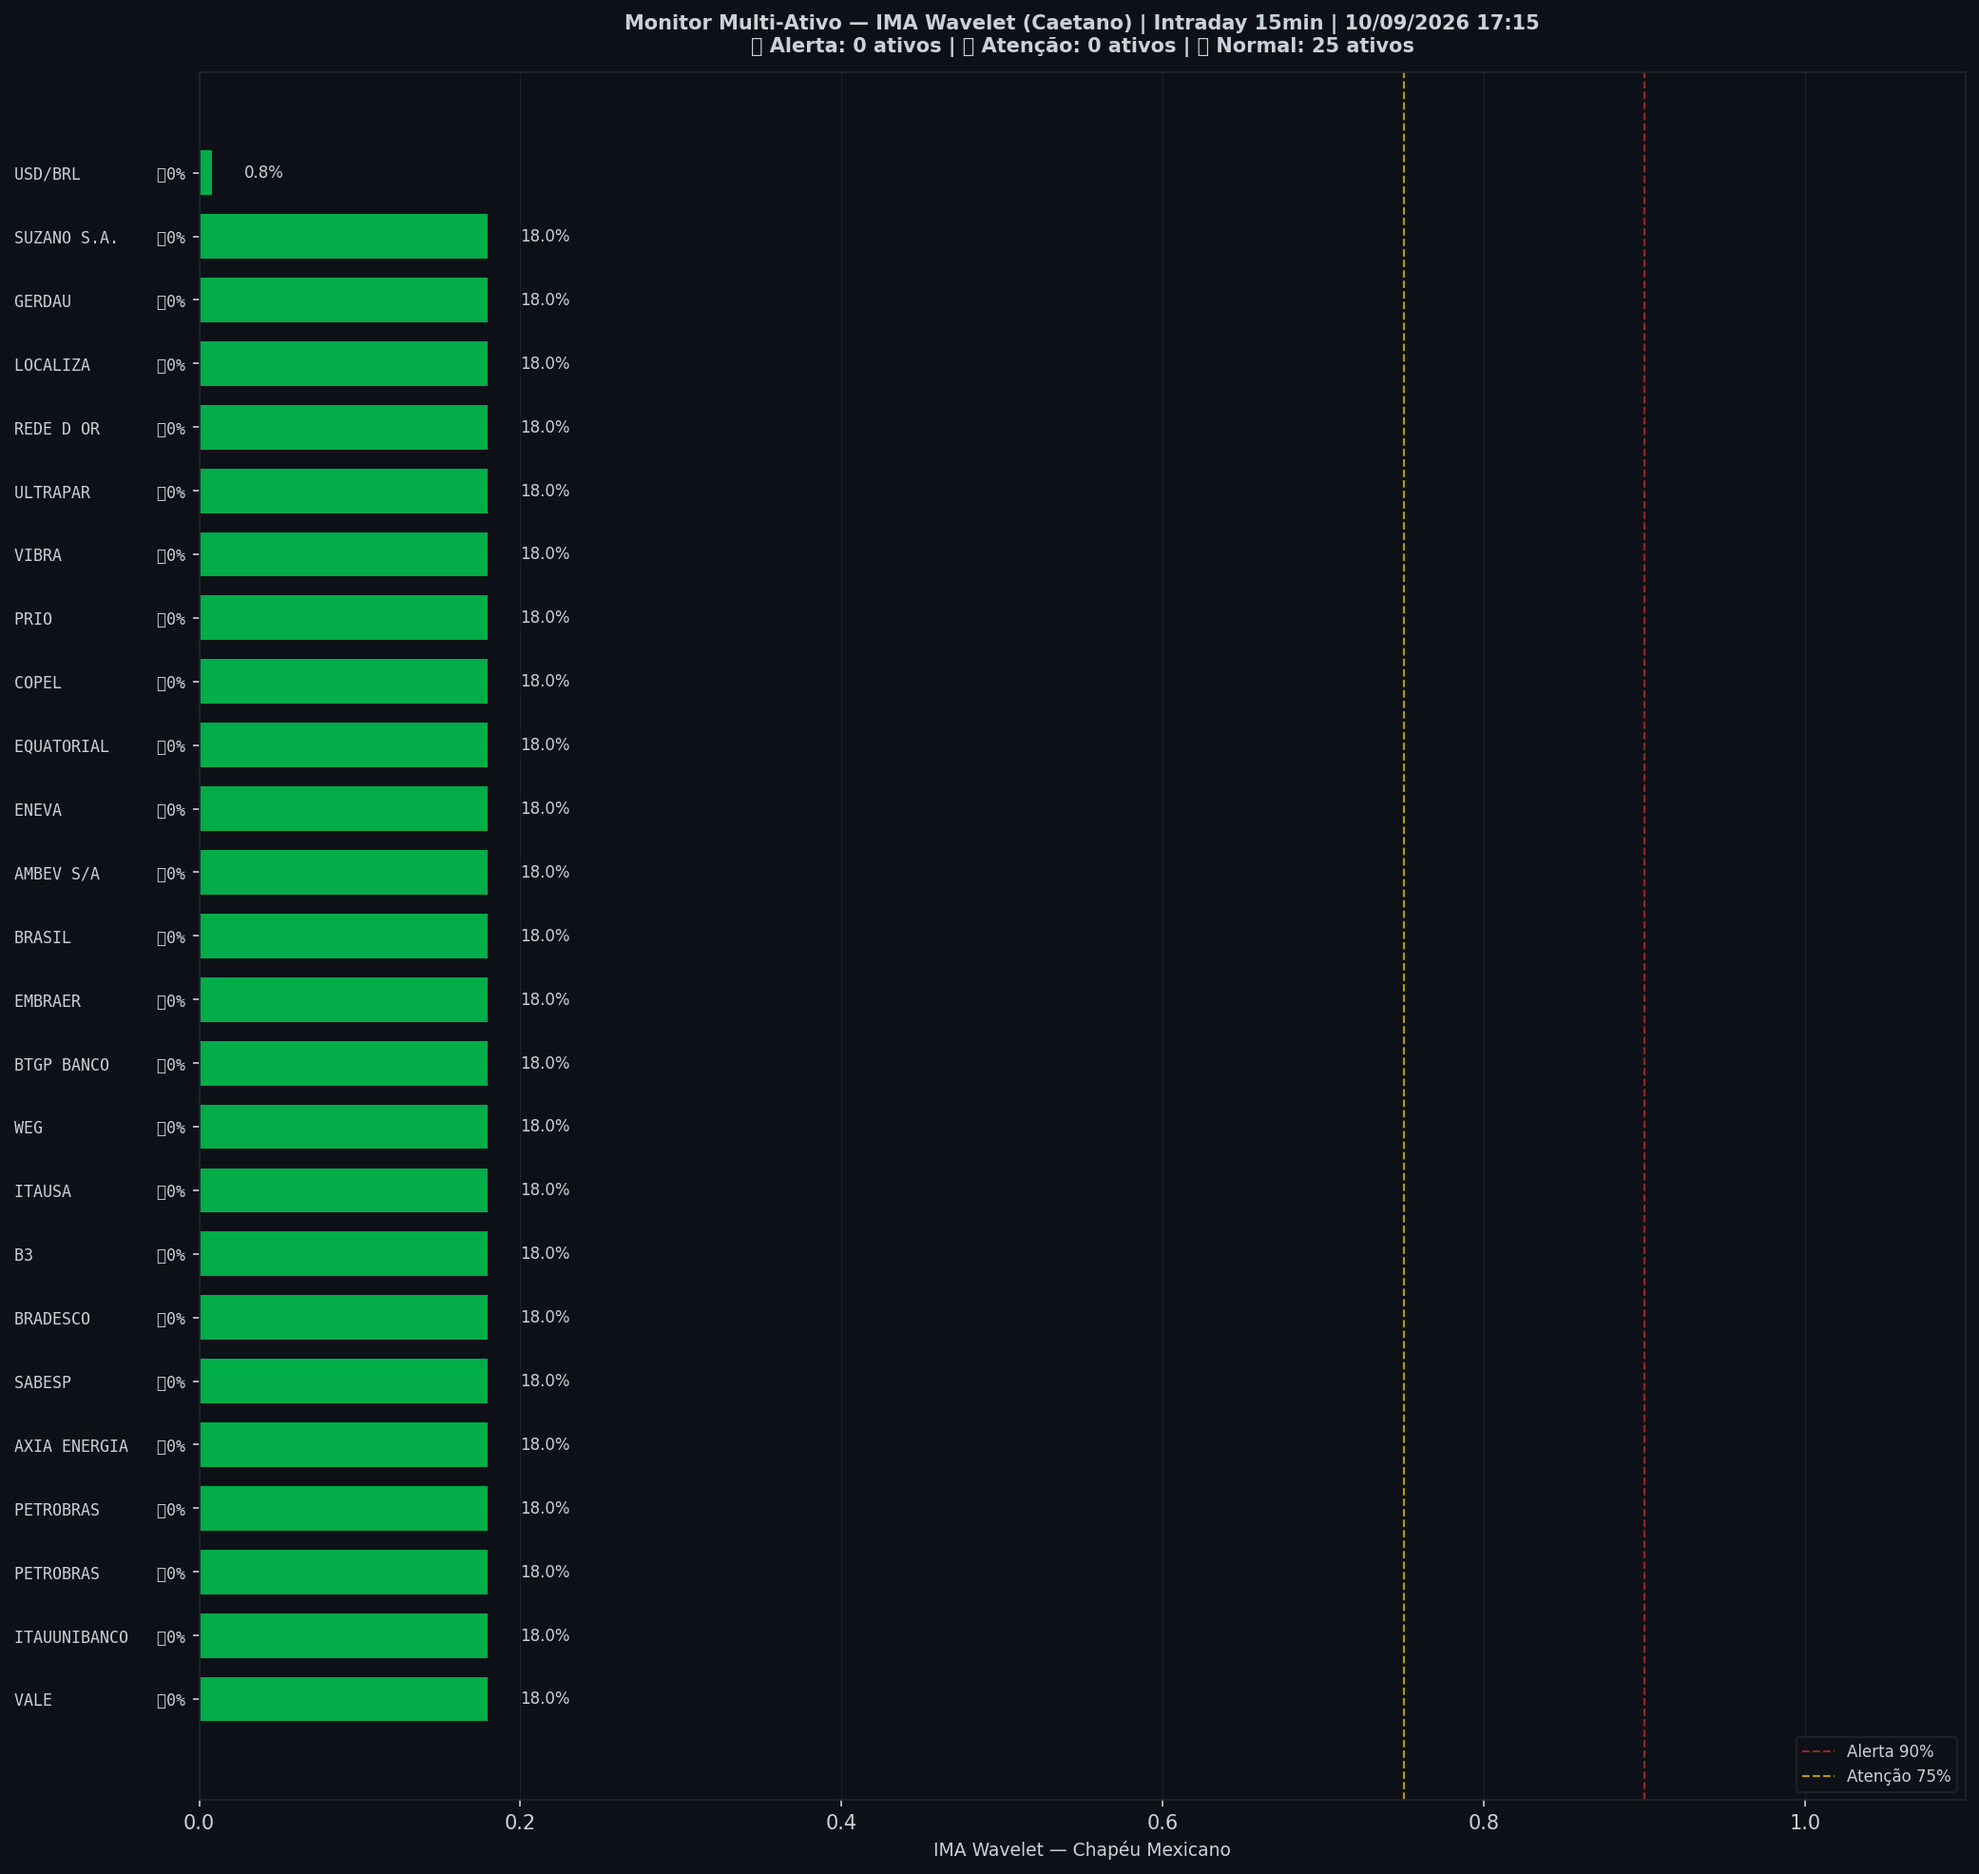
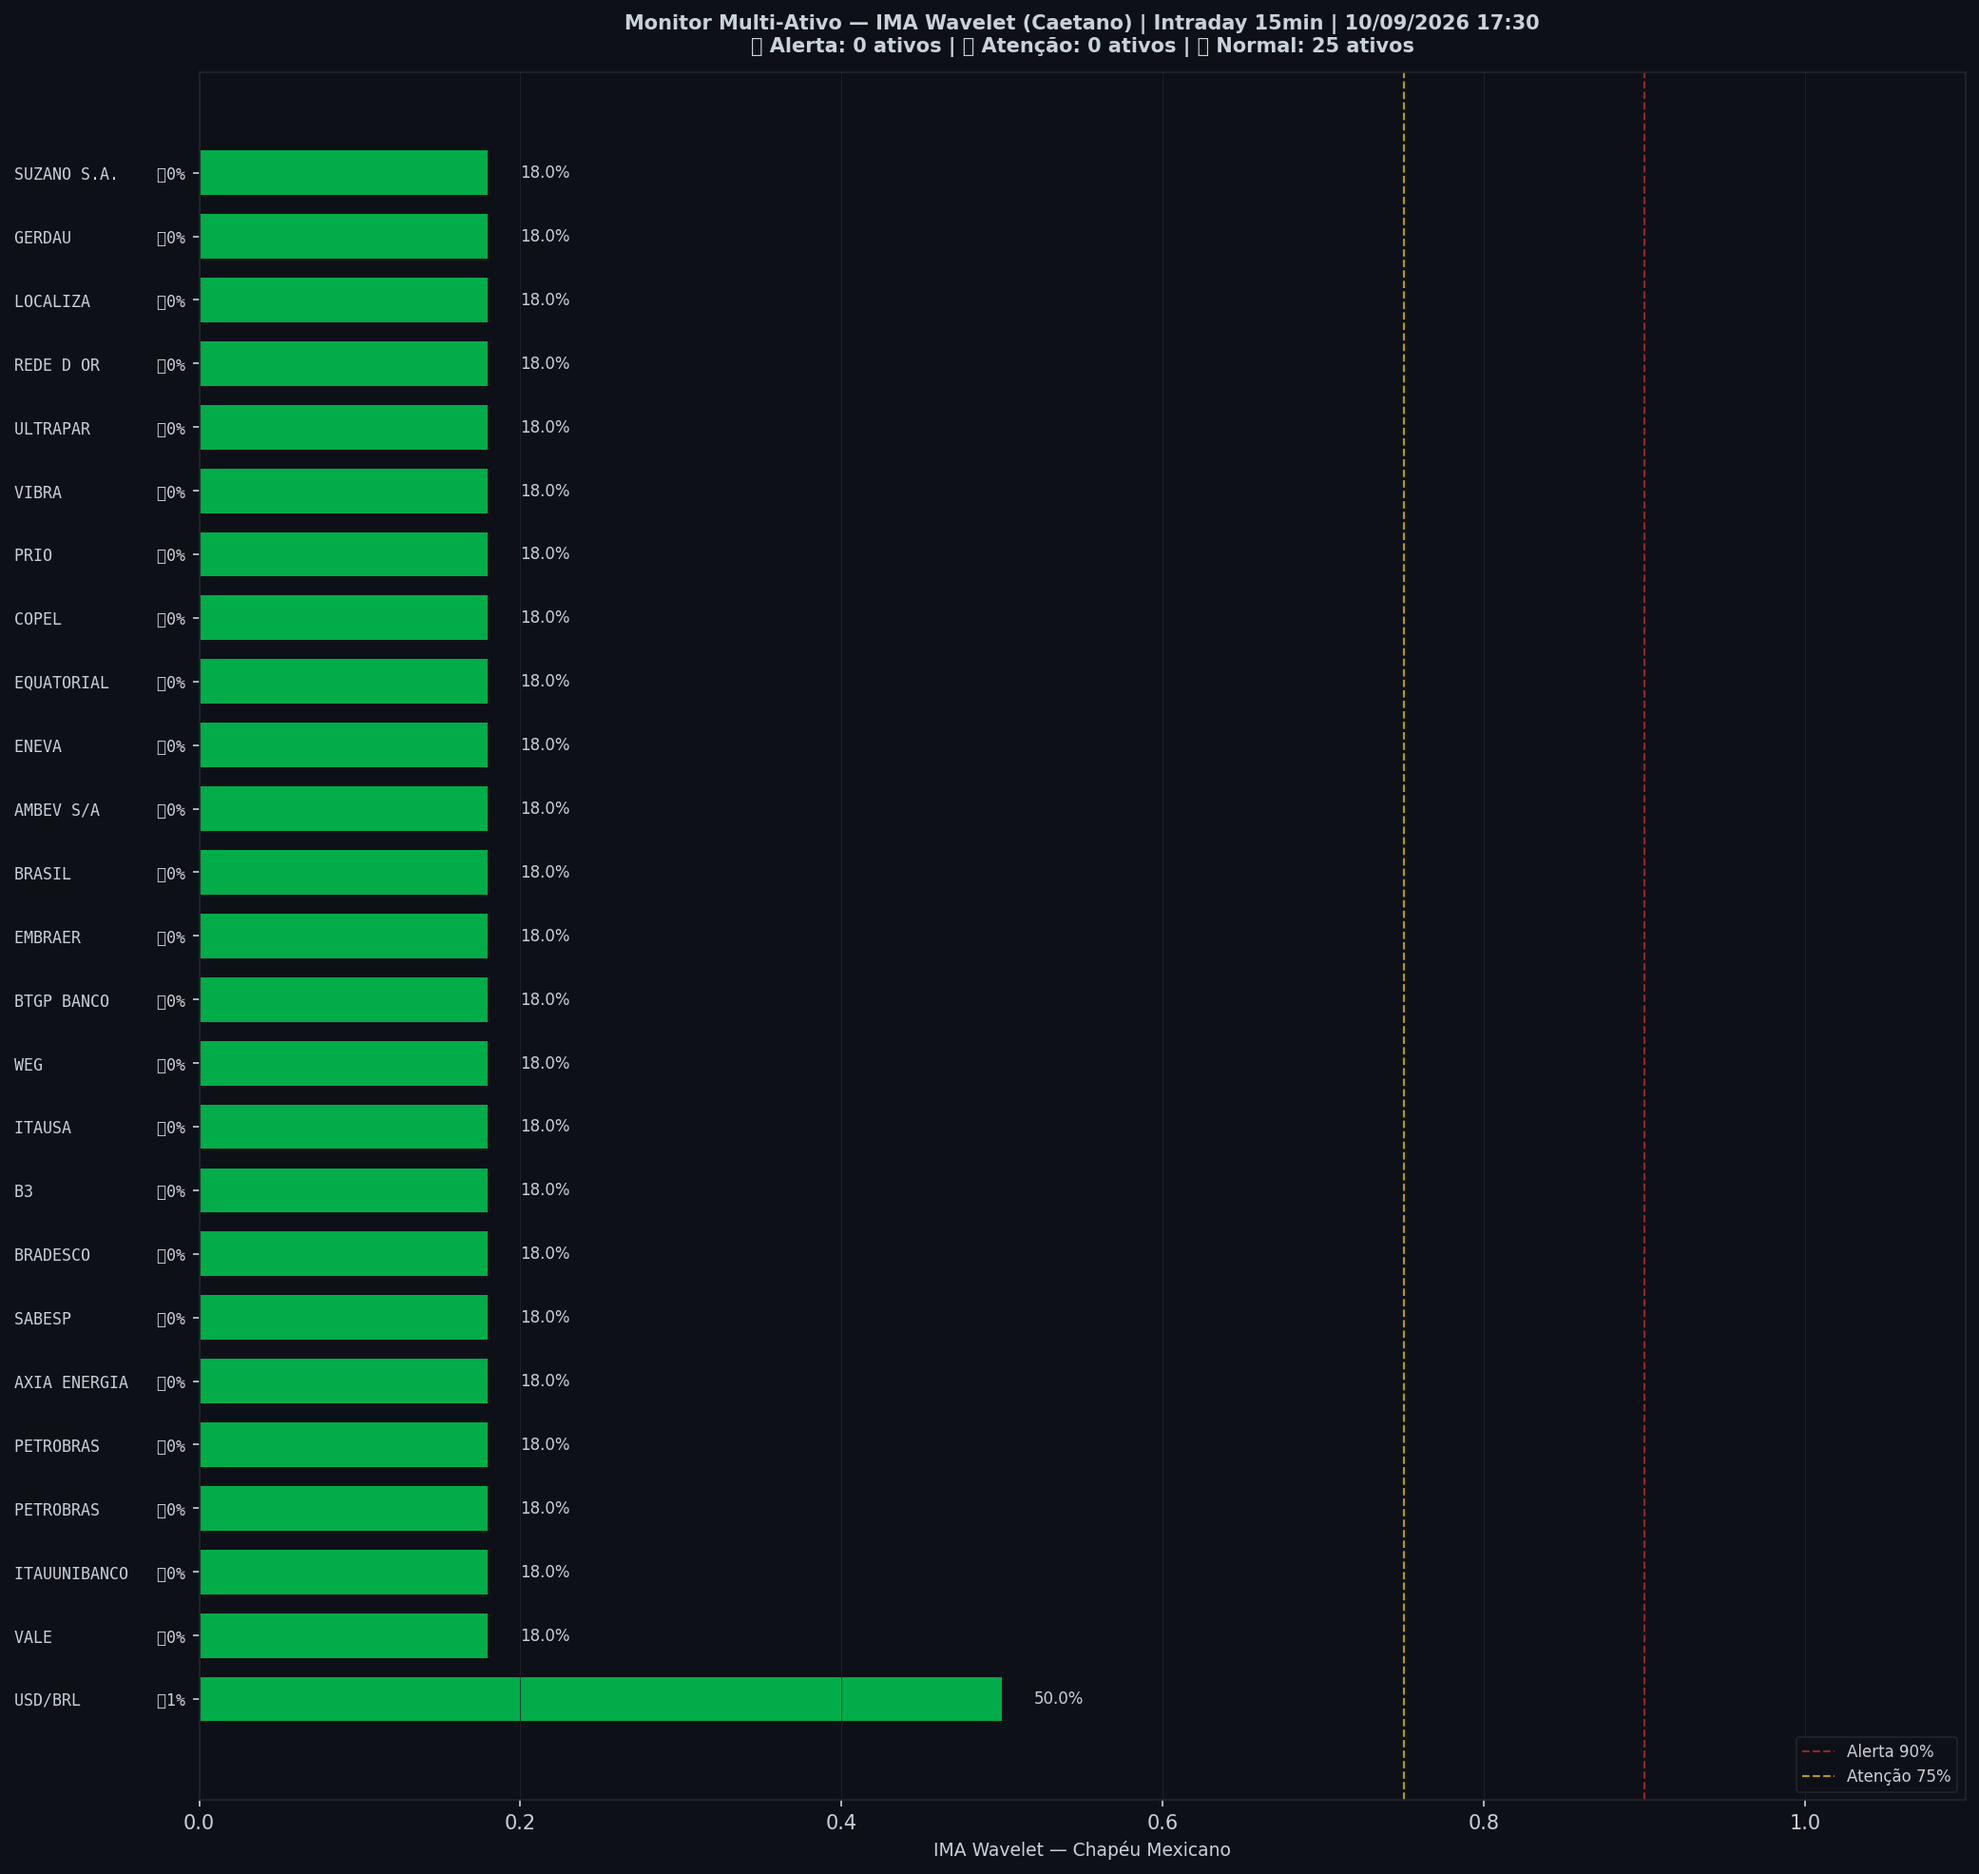
🤖 Auto: Sinal 10/09/2026 17:30

Changed region(s): [[0.0937, 0.0619, 0.2498, 0.1238], [0.2498, 0.8975, 0.5307, 0.9285], [0.0312, 0.8356, 0.0624, 0.8975]]

diff --git a/content/intraday/2026-09-10.md b/content/intraday/2026-09-10.md
@@ -1,10 +1,10 @@
 ---
-title: "🟢 Intraday 10/09/2026 16:30 BRT — VERDE"
+title: "🟢 Intraday 10/09/2026 16:45 BRT — VERDE"
 date: 2026-09-10
 tags: [intraday]
 ---
 
-> [!success] 🟢 **VERDE** — Risco 2% · ▲ +2 p.p. vs leitura anterior
+> [!success] 🟢 **VERDE** — Risco 2% · ＝ +0 p.p. vs leitura anterior
 > `░░░░░░░░░░░░░░░░░░░░`
 > Mercado sem sinais relevantes de estresse.
 
@@ -14,7 +14,7 @@ tags: [intraday]
 | 🔴 ζ Crash — severidade da queda em curso | **2%** |
 | 🔵 ζ Entrada — estrutura de fundo | 0% |
 | 🫧 LPPL DS-Confidence | 0% |
-| 📊 Ibovespa | 188.303 pts |
+| 📊 Ibovespa | 188.258 pts |
 
 ![Gráfico do sinal](../graficos/sinal_intraday.png)
 
@@ -22,6 +22,7 @@ tags: [intraday]
 
 | Data | Zona | Risco | IMA Crash | Entrada | LPPL |
 |---|---|---|---|---|---|
+| 2026-09-10 16:45 | 🟢 VERDE | **2%** | 2% | 0% | 0% |
 | 2026-09-10 16:30 | 🟢 VERDE | **2%** | 2% | 0% | 0% |
 | 2026-09-10 16:15 | 🟢 VERDE | **1%** | 1% | 0% | 0% |
 | 2026-09-10 16:00 | 🟢 VERDE | **2%** | 2% | 1% | 0% |
@@ -51,7 +52,6 @@ tags: [intraday]
 | 2026-09-10 10:00 | 🟢 VERDE | **1%** | 1% | 96% | 0% |
 | 2026-09-09 16:45 | 🟢 VERDE | **0%** | 0% | 97% | 0% |
 | 2026-09-09 16:30 | 🟢 VERDE | **0%** | 0% | 97% | 0% |
-| 2026-09-09 16:15 | 🟢 VERDE | **0%** | 0% | 97% | 0% |
 
 ## Monitor Multi-Ativo
 
@@ -59,6 +59,7 @@ tags: [intraday]
 
 | Zona | Ativo | Setor | IMA Crash | IMA Entrada |
 |---|---|---|---|---|
+| 🟢 | **USD/BRL** | Câmbio | 50.0% | 0.8% |
 | 🟢 | **VALE** | Mineração | 18.0% | 0.0% |
 | 🟢 | **ITAUUNIBANCO** | Financeiro | 18.0% | 0.0% |
 | 🟢 | **PETROBRAS** | Petróleo | 18.0% | 0.0% |
@@ -83,11 +84,10 @@ tags: [intraday]
 | 🟢 | **LOCALIZA** | Aluguel | 18.0% | 0.0% |
 | 🟢 | **GERDAU** | Siderurgia | 18.0% | 0.0% |
 | 🟢 | **SUZANO S.A.** | Papel/Celulose | 18.0% | 0.0% |
-| 🟢 | **USD/BRL** | Câmbio | 0.8% | 0.0% |
 
 ![Monitor multi-ativo](../graficos/multi_intraday.png)
 
-*Página atualizada em 10/09/2026 17:16 BRT (leitura da barra de 2026-09-10 16:30 BRT).*
+*Página atualizada em 10/09/2026 17:30 BRT (leitura da barra de 2026-09-10 16:45 BRT).*
 
 > [!info]- Como interpretar (clique para expandir)
 > - **ζ Crash**: fração dos coeficientes wavelet acima do corte (Caetano & Yoneyama 2009). Escala absoluta: ζ=0,90 = 90% dos coeficientes anômalos — historicamente, quedas com ζ≥0,90 foram mais fundas e mais longas. **Mede a severidade do movimento em curso, não prevê o início da queda.**

diff --git a/content/index.md b/content/index.md
@@ -8,9 +8,9 @@ tags: [home]
 
 Monitoramento diário e intraday do Ibovespa — **IMA Wavelet** (Prof. Marco Antonio Leonel Caetano, ITA/INSPER) + **LPPL DS-Confidence** (Prof. Didier Sornette, ETH-Zurich).
 
-*Última atualização: 10/09/2026 17:16 BRT · ^BVSP · Intraday 15min · v4*
+*Última atualização: 10/09/2026 17:30 BRT · ^BVSP · Intraday 15min · v4*
 
-> [!success] 🟢 **VERDE** — Risco 2% · ▲ +2 p.p. vs leitura anterior
+> [!success] 🟢 **VERDE** — Risco 2% · ＝ +0 p.p. vs leitura anterior
 > `░░░░░░░░░░░░░░░░░░░░`
 > Mercado sem sinais relevantes de estresse.
 
@@ -20,7 +20,7 @@ Monitoramento diário e intraday do Ibovespa — **IMA Wavelet** (Prof. Marco An
 | 🔴 ζ Crash — severidade da queda em curso | **2%** |
 | 🔵 ζ Entrada — estrutura de fundo | 0% |
 | 🫧 LPPL DS-Confidence | 0% |
-| 📊 Ibovespa | 188.303 pts |
+| 📊 Ibovespa | 188.258 pts |
 
 **Multi-ativo:** 0% em tensão (0🔴 0🟡 de 25 ativos)
 

diff --git a/content/historico.md b/content/historico.md
@@ -7,6 +7,7 @@ tags: [historico]
 
 | Data | Modo | Zona | Risco | IMA | LPPL |
 |---|---|---|---|---|---|
+| 2026-09-10 16:45 | intraday | 🟢 VERDE | 2% | 2% | 0% |
 | 2026-09-10 16:30 | intraday | 🟢 VERDE | 2% | 2% | 0% |
 | 2026-09-10 16:15 | intraday | 🟢 VERDE | 1% | 1% | 0% |
 | 2026-09-10 16:00 | intraday | 🟢 VERDE | 2% | 2% | 0% |
